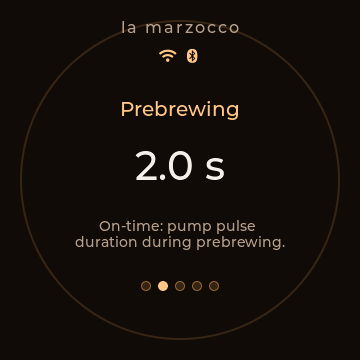
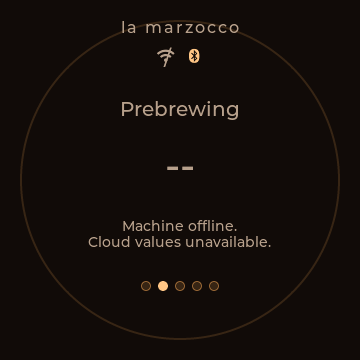
Update controller docs and screenshots

diff --git a/tools/controller_screenshot_renderer/renderer.c b/tools/controller_screenshot_renderer/renderer.c
@@ -6,6 +6,7 @@
 #include <sys/stat.h>
 #include <sys/types.h>
 
+#include "controller_connectivity.h"
 #include "controller_ui.h"
 #include "stubs.h"
 
@@ -116,8 +117,41 @@ static bool write_bmp(const char *path, const lv_img_dsc_t *image) {
   return true;
 }
 
+static void build_view(
+  const ctrl_state_t *state,
+  const host_stub_env_t *env,
+  const char *status_text,
+  lm_ctrl_ui_view_t *view
+) {
+  lm_ctrl_controller_access_t access = {0};
+
+  if (state == NULL || env == NULL || view == NULL) {
+    return;
+  }
+
+  memset(view, 0, sizeof(*view));
+  lm_ctrl_controller_compute_access(&env->wifi_info, &env->machine_info, state->feature_mask, &access);
+
+  view->language = env->wifi_info.language;
+  view->remote_path_state = access.remote_path_state;
+  view->ble_visible = env->machine_info.connected || env->machine_info.authenticated;
+  view->ble_authenticated = env->machine_info.authenticated;
+  view->readable_mask = access.readable_mask;
+  view->editable_mask = access.editable_mask;
+  view->preset_load_enabled = access.preset_load_enabled;
+  view->custom_logo = env->custom_logo;
+
+  if (status_text != NULL) {
+    snprintf(view->setup_status_text, sizeof(view->setup_status_text), "%s", status_text);
+  }
+  if (env->qr_payload[0] != '\0') {
+    snprintf(view->setup_qr_payload, sizeof(view->setup_qr_payload), "%s", env->qr_payload);
+  }
+}
+
 static bool render_to_bmp(const char *path, const ctrl_state_t *state, const host_stub_env_t *env, const char *status_text) {
   lm_ctrl_ui_t ui = {0};
+  lm_ctrl_ui_view_t view = {0};
   lv_img_dsc_t *snapshot = NULL;
   bool ok = false;
 
@@ -126,7 +160,8 @@ static bool render_to_bmp(const char *path, const ctrl_state_t *state, const hos
   }
 
   host_stub_set_env(env);
-  if (lm_ctrl_ui_init(&ui, state, status_text, dummy_action_cb, NULL) != ESP_OK) {
+  build_view(state, env, status_text, &view);
+  if (lm_ctrl_ui_init(&ui, state, &view, dummy_action_cb, NULL) != ESP_OK) {
     return false;
   }
 

diff --git a/README.md b/README.md
@@ -15,7 +15,7 @@ Today the strongest areas are:
 
 - ESP32 controller bring-up on the targeted round hardware
 - BLE control for the core day-to-day controller actions
-- cloud-backed setup, machine selection, and prebrewing management
+- cloud-backed setup, machine selection, BLE/cloud fallback, and prebrewing management
 
 ## Support development
 
@@ -42,14 +42,18 @@ The current ESP32 firmware supports:
 - physical outer ring input
 - local haptic and LED-ring feedback
 - local Wi-Fi/cloud setup portal with Wi-Fi scan
+- setup portal sections for overview, controller settings, network, cloud, recipes, advanced settings, and diagnostics
 - optional local SVG upload for a custom controller header logo
 - setup AP QR code and captive-portal style onboarding
 - machine selection via La Marzocco cloud account
+- connectivity-aware status icons for BLE fallback versus cloud machine reachability
+- conditional USB and low-battery/charging indicators on the on-device status bar
 - BLE control for:
   - coffee boiler temperature
   - steam boiler `Off / 1 / 2 / 3` level control from the controller screen
   - standby
 - cloud-backed prebrewing mode and timing changes
+- on-device recovery actions for `Clear web password` and `Reset network`
 - periodic machine value refresh while the controller stays online
 - recipe presets for:
   - coffee boiler temperature
@@ -69,6 +73,7 @@ The currently targeted hardware is a JC3636K718-style ESP32-S3 round controller 
 Representative controller UI screenshots are published as PNG files under `docs/controller/images/`.
 The full gallery is in [`docs/controller/SCREENSHOTS.md`](docs/controller/SCREENSHOTS.md).
 The published defaults intentionally show the text header, not an official La Marzocco logo.
+The current published examples intentionally show the local fallback state with BLE active and a crossed Wi-Fi icon while the selected machine is not yet reachable through cloud.
 
 | Coffee Boiler | Presets | Setup |
 | --- | --- | --- |
@@ -92,9 +97,11 @@ If you want to flash the controller:
 - On first boot without stored Wi-Fi credentials, and again after a full factory reset, the controller opens `Setup` automatically and starts its own setup AP.
 - In that state the setup screen shows a QR code for the controller AP plus the AP name, password, and local setup IP so onboarding can start directly on a phone.
 - After home Wi-Fi is saved, the controller immediately tries to join that network. Once connected, the setup portal stays available again via the on-device setup gesture and the configured `http://<hostname>.local/` address.
+- The browser setup portal is currently split into `Overview`, `Controller`, `Network`, `Cloud`, `Recipes`, `Advanced`, and `Diagnostics`.
+- A crossed Wi-Fi icon means the controller has account/network context but the selected machine is not currently reachable through cloud. BLE control can still stay active in that state.
 - The cloud login path expects a direct La Marzocco account email/password. Accounts created only through Apple or Google sign-in are not expected to work with the current controller login flow.
 - A possible workaround for Apple/Google-only accounts is to create a second La Marzocco account with a normal email/password login and grant that account access in the official app. Treat this as a best-effort workaround, not a guaranteed fix.
-- Main gestures are: swipe down for `Presets`, swipe up for `Setup`, and long-press on the setup screen to open the on-device network reset flow.
+- Main gestures are: swipe down for `Presets`, swipe up for `Setup`, and long-press on the setup screen to open `Recovery` for `Clear web password` or `Reset network`.
 
 ## Developer tools
 
@@ -109,6 +116,7 @@ These tools are useful if you want to:
 - inspect cloud dashboard responses on a desktop machine
 - inspect settings, statistics, schedule, and dashboard websocket responses
 - bootstrap machine selection and BLE token retrieval
+- expose a BMP controller screenshot route through the portal `Diagnostics` section
 - compare controller behaviour with a Python-side reference client
 - debug BLE/cloud behaviour outside the embedded firmware loop
 - build a normalized inventory of which fields are already mapped to the controller and which are still unused

diff --git a/docs/controller/SETUP_GUIDE.md b/docs/controller/SETUP_GUIDE.md
@@ -13,6 +13,7 @@ Visual reference:
 - connect a La Marzocco cloud account
 - select the active machine and persist its binding
 - keep the default text header or store an optional custom header logo as a controller setting
+- explain the current connectivity indicators and recovery actions
 - optionally inspect BLE/cloud state in the simulator tooling
 
 ## Simulator flow
@@ -56,14 +57,23 @@ The current firmware provides a real local setup path:
 10. In **La Marzocco Cloud**, store the cloud account email/password and load the machine list.
 11. Select the active machine in **Select Machine** so the controller can persist the machine binding.
 12. The browser portal currently supports:
-   - cloud account storage
-   - Wi-Fi scan
-   - home Wi-Fi storage
-   - controller language selection (`English` by default)
-   - optional local SVG upload for the controller header logo
-   - machine loading and selection
+   - `Overview` with portal reachability, current IP, and stable `.local` URL
+   - `Controller` settings for hostname, language (`English` default), and optional local SVG header logo
+   - `Network` with Wi-Fi storage and scan
+   - `Cloud` account storage, machine loading/selection, and setup-AP provisioning import
+   - `Recipes` for controller preset editing
+   - `Advanced` controller tuning and factory reset
+   - `Diagnostics` for cloud heat debug and the optional remote screenshot route
 13. Swipe up on the main controller screen to reopen `Setup` later.
 14. Swipe down on the main controller screen to open `Presets`.
+
+## Connectivity indicators
+
+- The Bluetooth icon is shown when the controller currently has a BLE path to the machine.
+- A crossed Wi-Fi icon means the controller has network/account context but the selected machine is not currently reachable through cloud.
+- A solid Wi-Fi icon means the selected machine is reachable through cloud.
+- USB and battery indicators appear only when the controller reports USB power, charging, or low-battery state.
+- In the crossed-Wi-Fi state, local BLE control for temperature, steam, and status can stay available while cloud-only values such as prebrewing continue to wait for the remote path.
 
 ## Cloud account note
 
@@ -79,8 +89,9 @@ The current firmware provides a real local setup path:
 - Swipe up on the main screen to open `Setup`.
 - On the `Presets` screen, swipe up to return to the main screen.
 - On the `Setup` screen, swipe down to return to the main screen.
-- Long-press on the `Setup` screen to open the on-device reset flow.
-- The on-device long-press reset is a `Reset Network` flow, not a full `Factory Reset`.
+- Long-press on the `Setup` screen to open the on-device `Recovery` flow.
+- `Recovery` currently offers `Clear web password` and `Reset network`.
+- `Clear web password` removes the LAN portal password outside the setup AP and keeps the stored Wi-Fi, cloud, and machine-binding state.
 - `Reset Network` clears Wi-Fi, cloud credentials, and machine selection, then reboots back into setup mode.
 - Full `Factory Reset` is available in the setup portal under `Advanced`; it also erases presets and the optional custom logo.
 

diff --git a/docs/controller/SCREENSHOTS.md b/docs/controller/SCREENSHOTS.md
@@ -1,6 +1,7 @@
 # Controller Screenshot Gallery
 
 These screenshots are stored as PNG files in `docs/controller/images/` so they render reliably on GitHub and can be reused in issues, release notes, and documentation.
+Regenerate the device shots and portal preview with `make -C tools/controller_screenshot_renderer export` after UI or portal changes.
 
 The published screenshots intentionally show the shipped text header and not an official La Marzocco logo.
 
@@ -22,7 +23,7 @@ The published screenshots intentionally show the shipped text header and not an 
 
 ## Local setup portal
 
-This screenshot is generated locally from `tools/controller_screenshot_renderer/controller_setup_portal_preview.html`, a preview page that mirrors the current setup portal structure and styling with representative example values. It shows the `Header Logo` controller setting while keeping the shipped presentation text-only.
+This screenshot is generated locally from `tools/controller_screenshot_renderer/controller_setup_portal_preview.html`, a preview page that mirrors the current setup portal structure and styling with representative example values. The preview tracks the current `Overview`, `Controller`, `Network`, `Cloud`, `Recipes`, `Advanced`, and `Diagnostics` layout while keeping the shipped presentation text-only.
 
 ![Local controller setup portal preview](./images/controller-setup-portal.png)
 
@@ -30,3 +31,5 @@ This screenshot is generated locally from `tools/controller_screenshot_renderer/
 
 - UI screenshots for the round controller belong in `docs/controller/images/` because they are part of the controller-specific documentation.
 - Released screenshots should keep vendor compatibility as text and avoid official logo branding in the published images.
+- The current main-screen examples intentionally show BLE-authenticated fallback with a crossed Wi-Fi icon. A solid Wi-Fi icon is only shown once the selected machine is reachable through cloud.
+- USB and battery icons are conditional runtime indicators, so they only appear in screenshots when the rendered sample state exposes them.

diff --git a/docs/controller/CLOUD_DASHBOARD_DEBUG.md b/docs/controller/CLOUD_DASHBOARD_DEBUG.md
@@ -128,6 +128,11 @@ Expected interpretations:
 - `heatSignals.assessment == "no_heating_signal"`
   The tested dashboard snapshot does not currently expose a warmup signal.
 
+Current controller UI semantics map these reachability signals like this:
+
+- solid Wi-Fi icon: the selected machine is reachable through cloud
+- crossed Wi-Fi icon: account/network context exists, but there is no live cloud path to the selected machine yet
+
 The default widget subset is still:
 
 - `CMMachineStatus`
